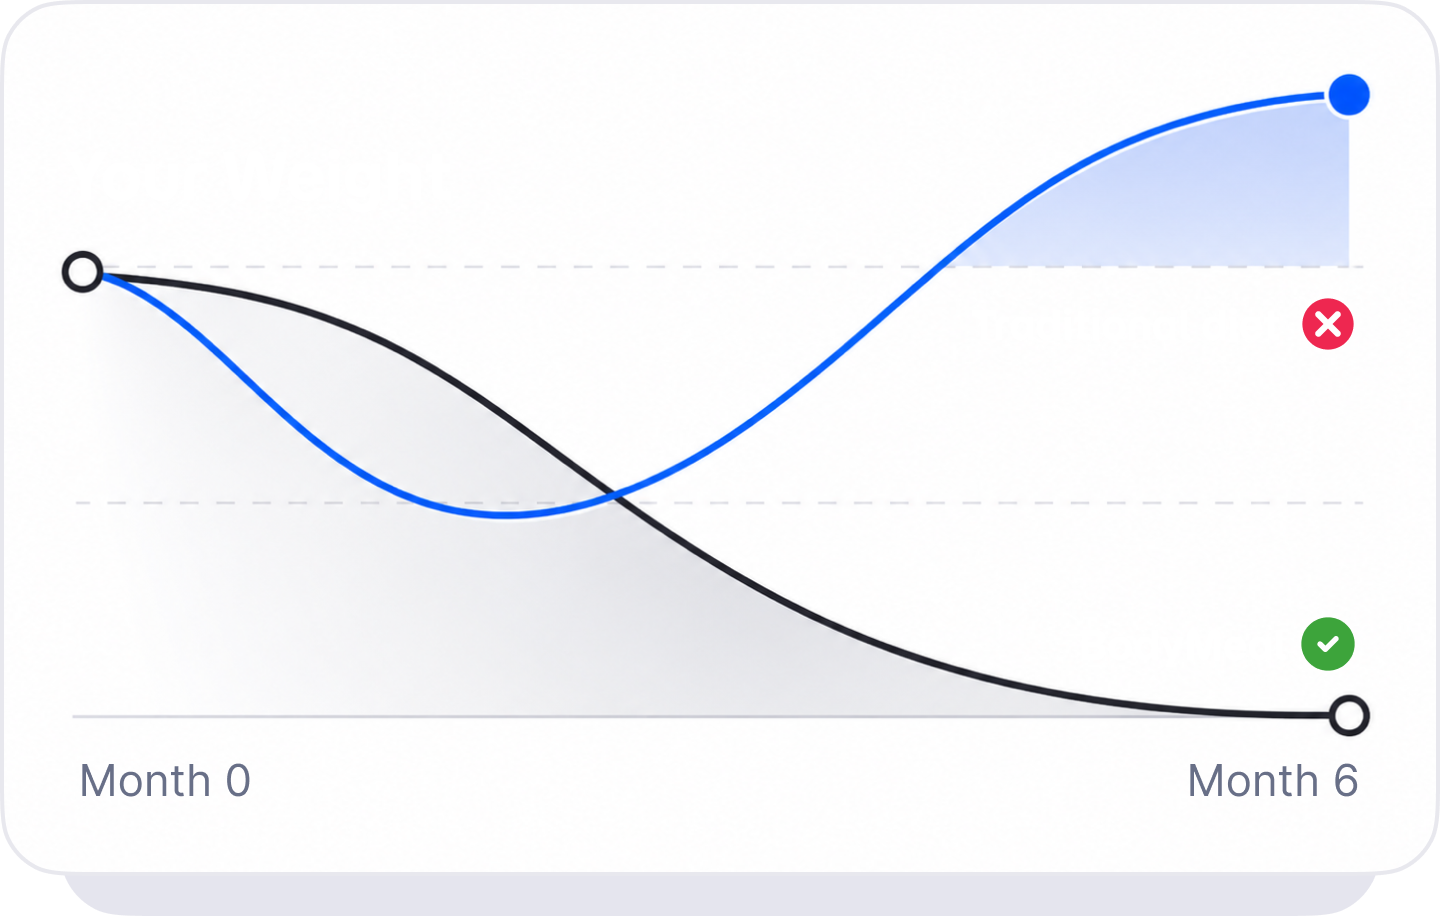
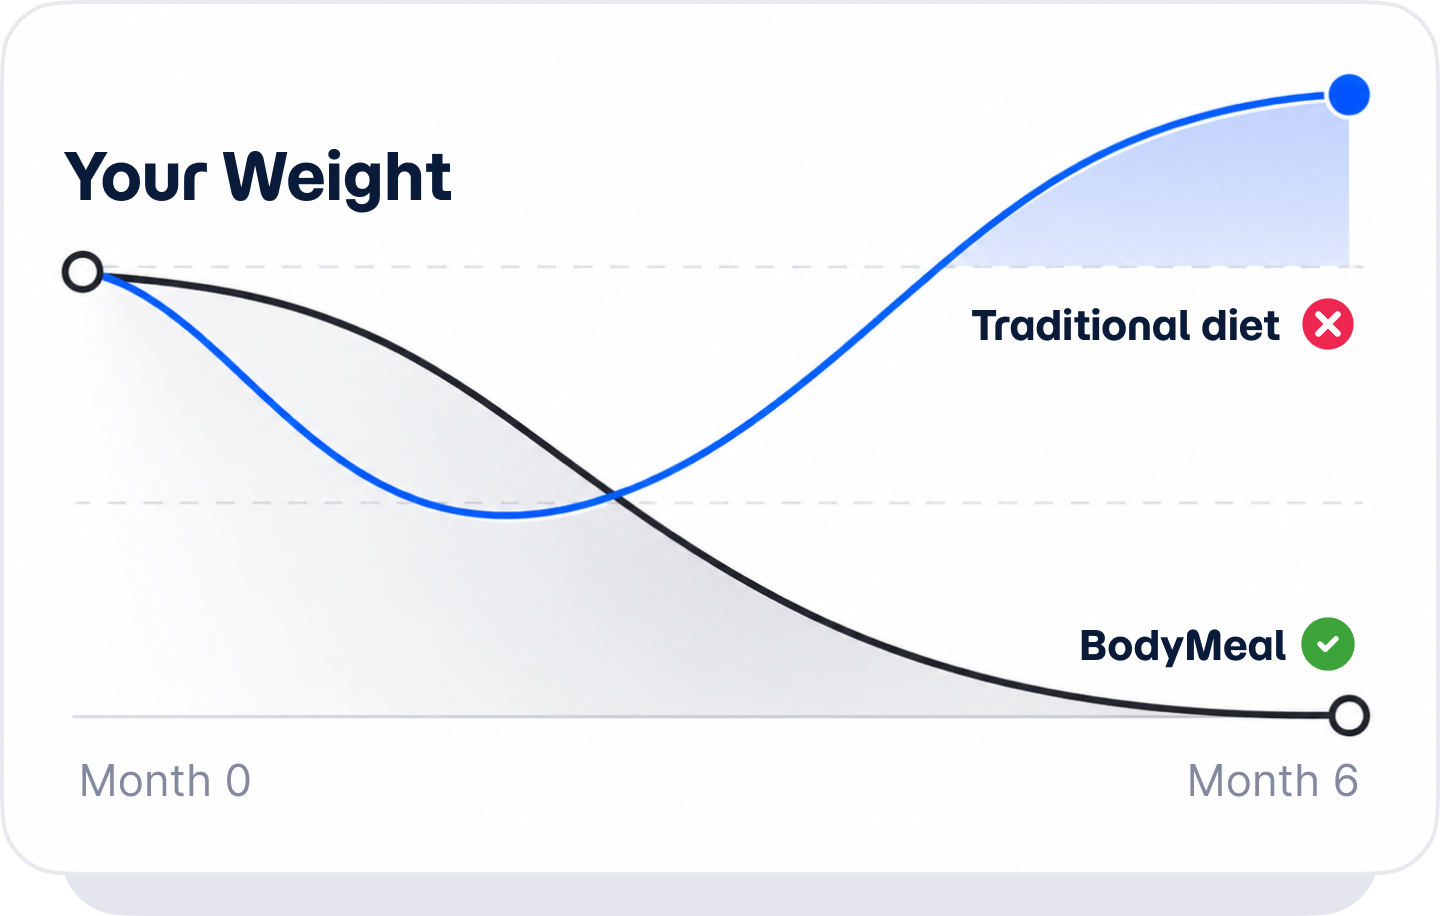
fix(onboarding): keep trial-reminder CTA enabled when IAP isn't loaded
The trial reminder step only advances to the next onboarding step
(the real paywall does the purchase), so gating its CTA on a loaded
yearly product would lock the button on Android APKs without a Play
billing connection. Switch to an unconditional onPressed; price
labels already degrade to an em-dash placeholder when the product
isn't available yet.

Also: prevent the primary CTA's dark-on-blue flicker by setting
`animationDuration: Duration.zero` on its ButtonStyle — Material's
default state animation flips bg/fg on slightly different curves,
which briefly mismatched while the button flipped from disabled to
enabled. Refresh the keep-result hero illustration with the updated
chart2 export.

diff --git a/app/lib/features/onboarding/widgets/onboarding_flow.dart b/app/lib/features/onboarding/widgets/onboarding_flow.dart
@@ -1072,6 +1072,14 @@ if (_currentPage < kinds.length - 1) {
                                     borderRadius: BorderRadius.circular(20),
                                   ),
                                   elevation: 0,
+                                  // Material's default state animations
+                                  // would animate bg/fg on slightly
+                                  // different curves, briefly showing
+                                  // dark text on a blue background as
+                                  // the button flips from disabled →
+                                  // enabled. Flipping instantly keeps
+                                  // both layers in lockstep.
+                                  animationDuration: Duration.zero,
                                 ),
                                 child: _isFinishing
                                     ? const SizedBox(

diff --git a/app/lib/features/onboarding/widgets/steps/trial_reminder_step.dart b/app/lib/features/onboarding/widgets/steps/trial_reminder_step.dart
@@ -120,12 +120,14 @@ class _TrialReminderStepState extends State<TrialReminderStep> {
             width: double.infinity,
             height: 60,
             child: ElevatedButton(
-              onPressed: yearly == null ? null : widget.onNext,
+              // CTA only advances to the next onboarding step (the real
+              // paywall handles purchase). Don't gate on IAP product
+              // load — Android APKs without a Play billing connection
+              // would otherwise show a permanently-disabled button.
+              onPressed: widget.onNext,
               style: ElevatedButton.styleFrom(
                 backgroundColor: AppColors.primary,
                 foregroundColor: Colors.white,
-                disabledBackgroundColor: AppColors.lightDisabledBg,
-                disabledForegroundColor: AppColors.lightDisabledContent,
                 shape: RoundedRectangleBorder(
                   borderRadius: BorderRadius.circular(20),
                 ),